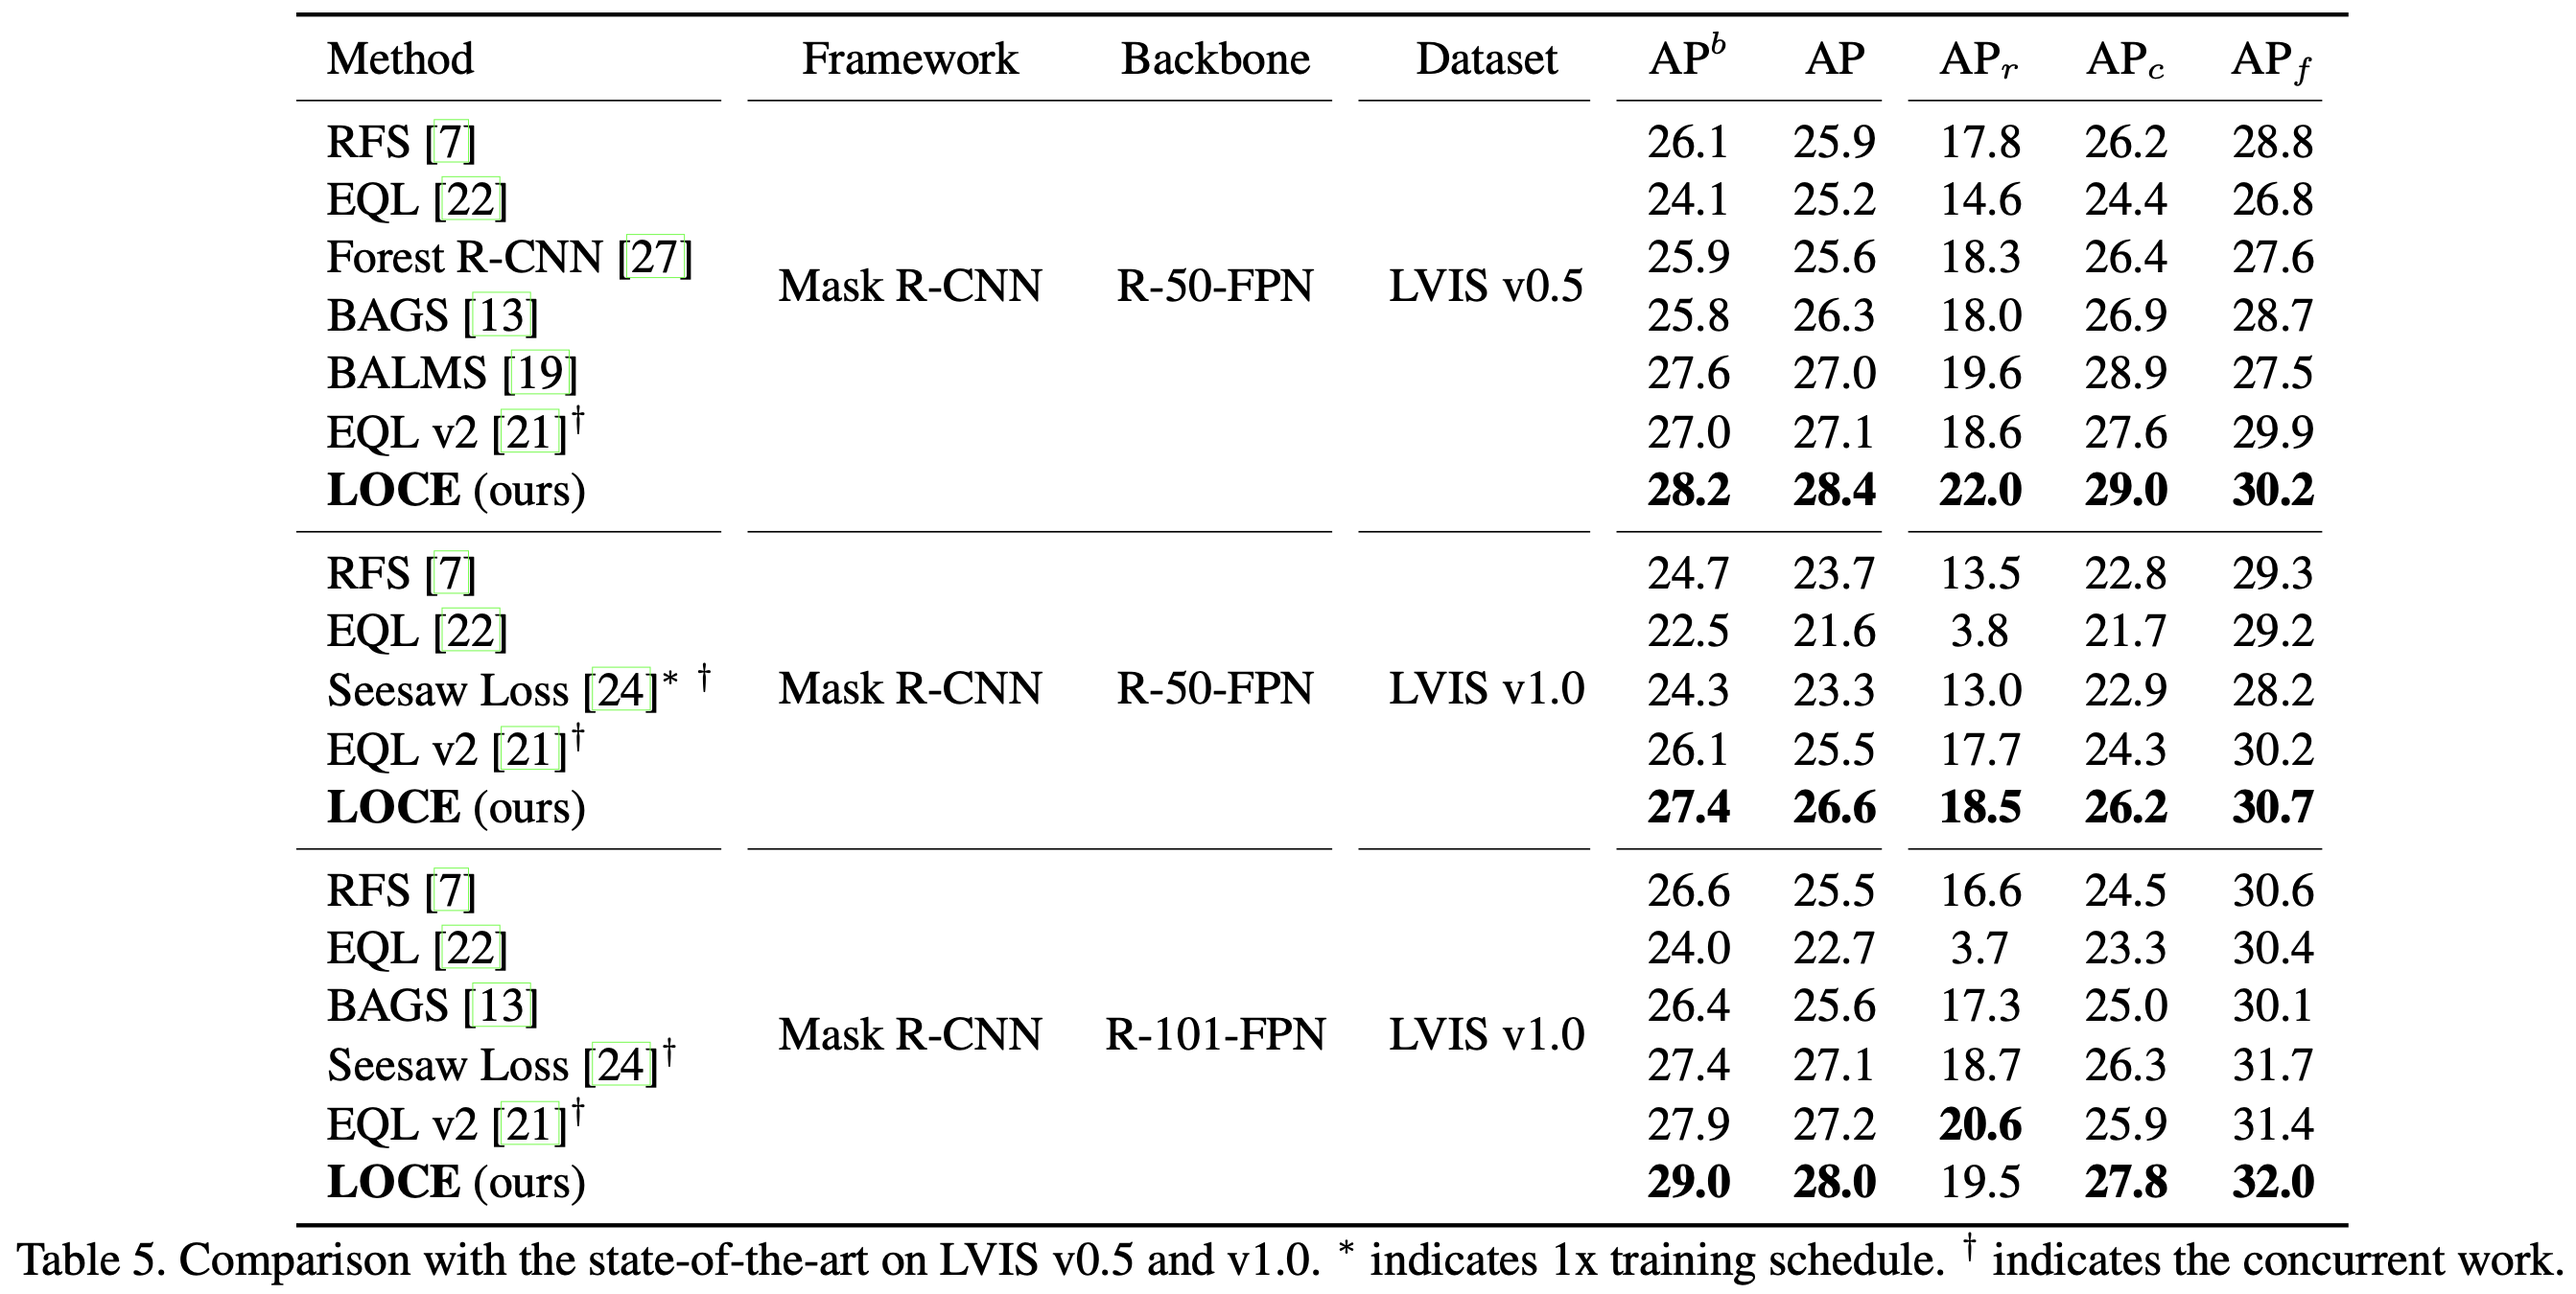
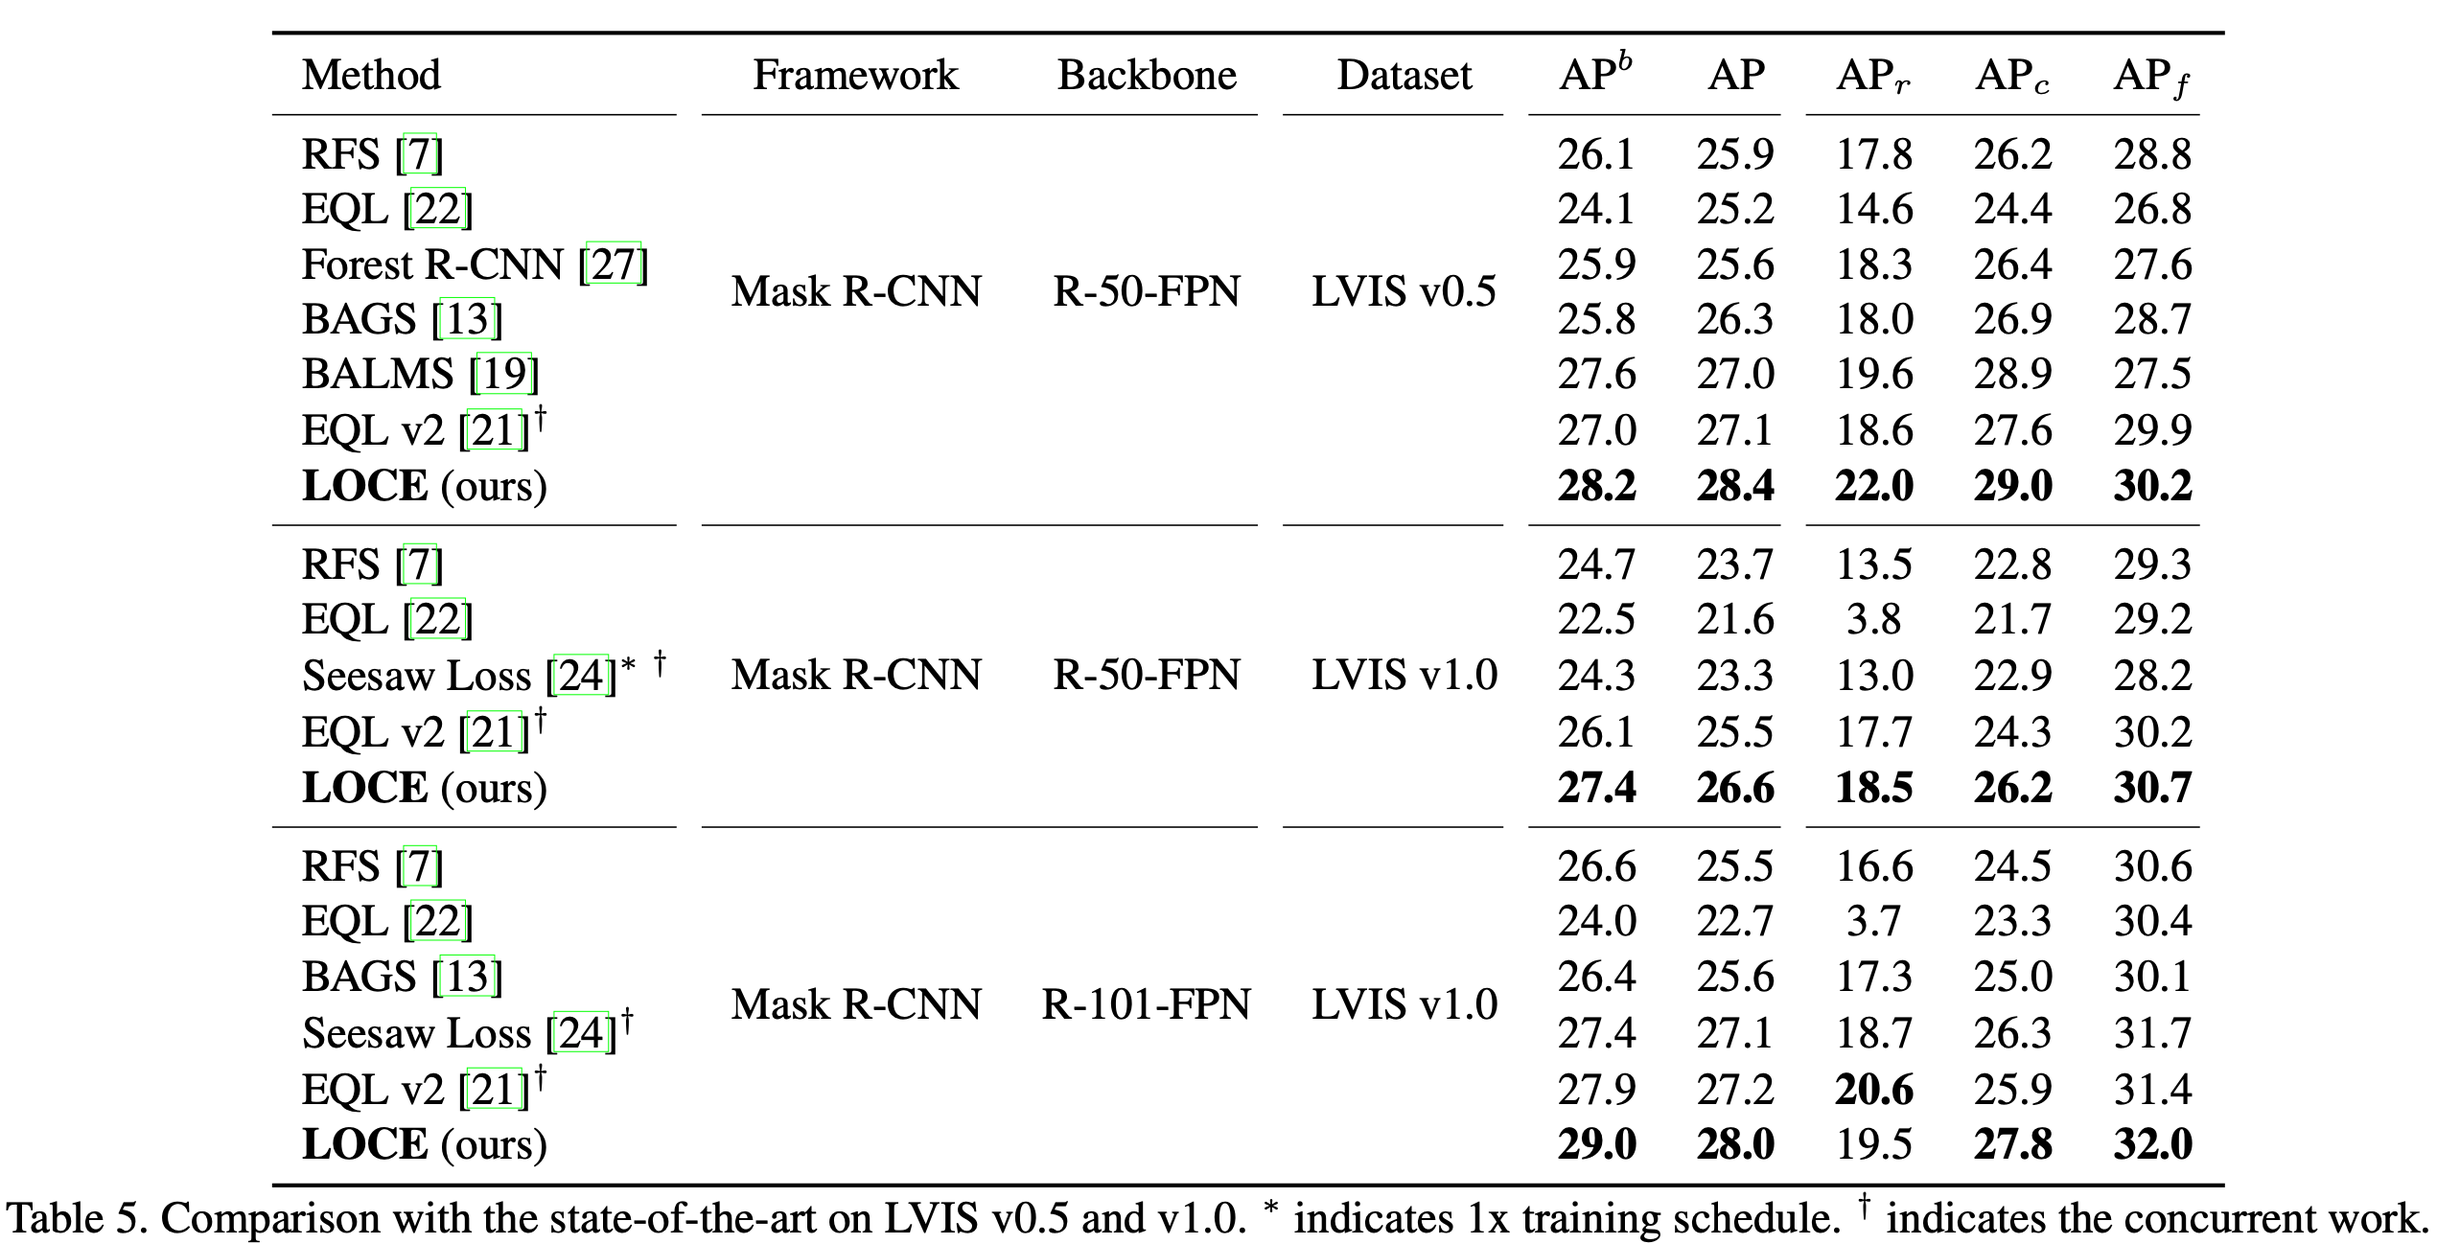
init

Changed region(s): [[0.0, 0.0, 1.0, 1.0], [0.3108, 0.6471, 0.4972, 0.678], [0.3108, 0.4006, 0.4972, 0.4314]]

diff --git a/tood/index.html b/tood/index.html
@@ -253,6 +253,13 @@
 	<hr>
 	<center><h1>Results</h1></center>
 
+	<table align=center width=850px>
+		<tr>
+			<td>
+				Compare with SOTA one-stage object detectors on the COCO <i>test-dev</i> set. TOOD achieves a 51.1 AP at single-model single-scale testing, surpassing the recent one-stage detectors by a large margin.
+			</td>
+		</tr>
+	</table>
 	<table align=center width=750px>
 		<center>
 			<tr>
@@ -269,12 +276,19 @@
 	<hr>
 	<center><h1>Visualizations</h1></center>
 
+	<table align=center width=850px>
+		<tr>
+			<td>
+				Illustration of several detection results predicted from the best anchors for <font color=#FF0000><b>classification</b></font> and <font color=#00FF00><b>localization</b></font>, as well as the corresponding <font color=#F3F300><b>ground-truths</b></font>.
+			</td>
+		</tr>
+	</table>
 	<table align=center width=750px>
 		<center>
 			<tr>
 				<td>
 				<center>
-					<td><img class="round" style="width:1000px" src="./resources/qualitative_result.png"/></td>
+					<td><img class="round" style="width:850px" src="./resources/qualitative_result.png"/></td>
 				</center>
 				</td>
 			</tr>

diff --git a/loce/index.html b/loce/index.html
@@ -229,12 +229,19 @@
 	<hr>
 	<center><h1>Results</h1></center>
 
+	<table align=center width=850px>
+		<tr>
+			<td>
+				Compare with SOTA long-tailed object detectors on LVIS v0.5 and LVIS v1.0. LOCE surpasses the most recent long-tailed object detectors such as BAGS, Seesaw Loss and EQL v2.
+			</td>
+		</tr>
+	</table>
 	<table align=center width=1000px>
 		<center>
 			<tr>
 				<td>
 				<center>
-					<img class="round" style="width:1000px" src="./resources/quantitative_result.png"/>
+					<img class="round" style="width:850px" src="./resources/quantitative_result.png"/>
 				</center>
 				</td>
 			</tr>
@@ -245,6 +252,13 @@
 	<hr>
 	<center><h1>Visualizations</h1></center>
 
+	<table align=center width=850px>
+		<tr>
+			<td>
+				Analysis of classification equilibrium between different training methods on LVIS v1.0 validation set. LOCE performs more balanced classification and achieves higher classification accuracy of both common classes and tail classes, than the other two methods.
+			</td>
+		</tr>
+	</table>
 	<table align=center width=750px>
 		<center>
 			<tr>
